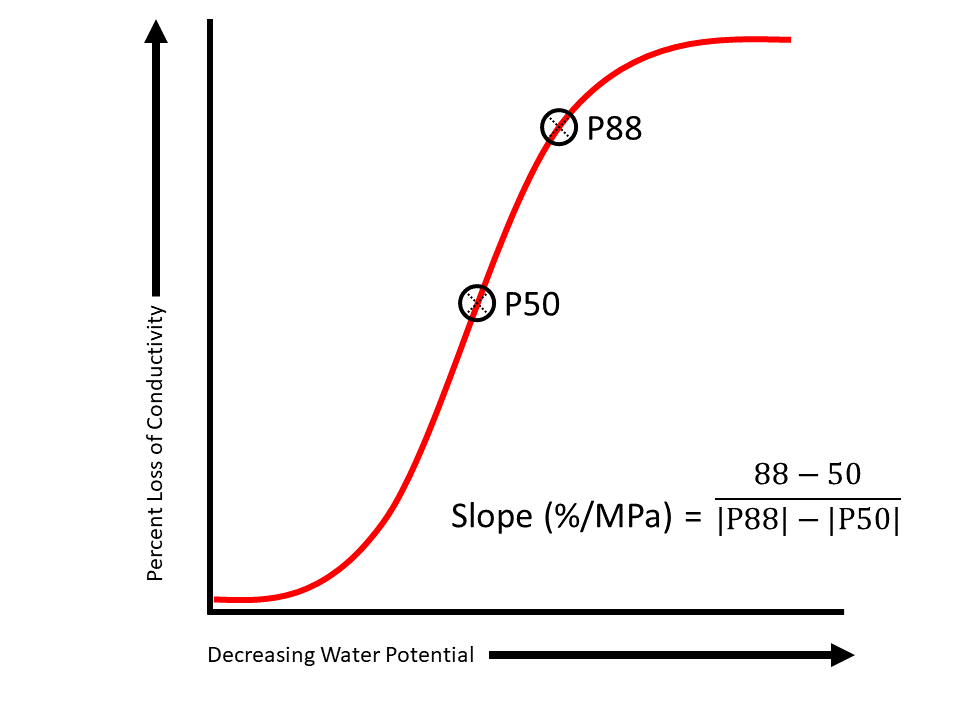
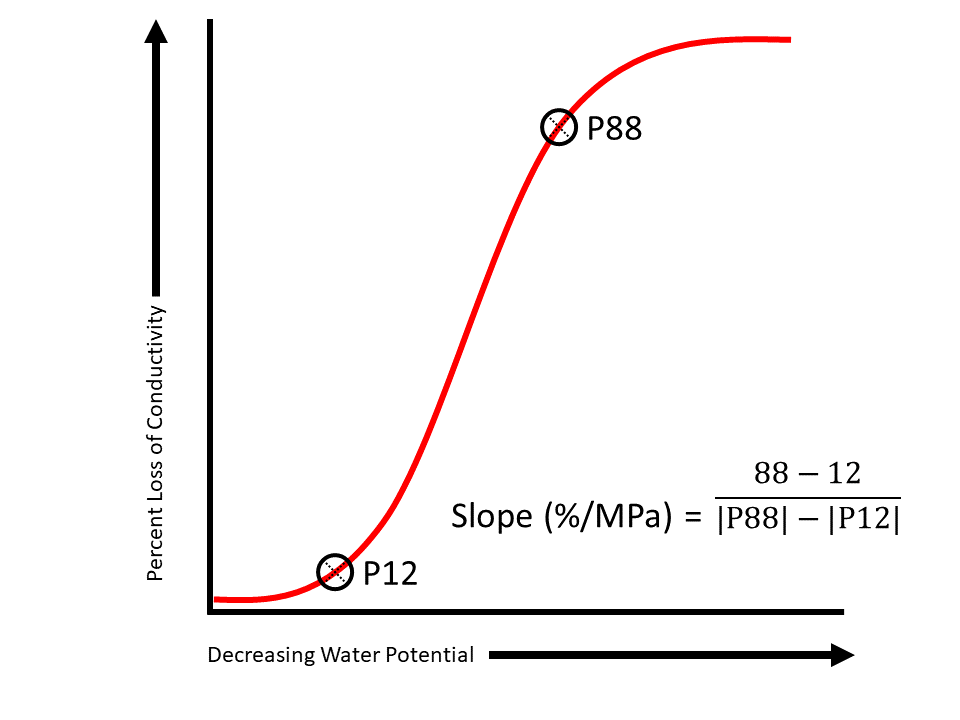
updated slope definition, added Domec and Gartner

diff --git a/XFT/trait_definitions.html b/XFT/trait_definitions.html
@@ -1517,13 +1517,7 @@ div.tocify {
 <!-- ```{r setup, include=FALSE} -->
 <!-- knitr::opts_chunk$set(echo = FALSE) -->
 <!-- ``` -->
-<style>
-.main-container {
-    width: 100%;
-    max-width: unset;
-}
-</style>
-<div id="hydraulic-traits" class="section level1 tabset">
+<div id="hydraulic-traits" class="section level1 tabset tabset-pills">
 <h1>Hydraulic Traits</h1>
 <p>Plant hydraulic traits in the xylem functional traits database are most often those derived from, or related to the vulnerability curve of a species. Vulnerability curves describe the increase in hydraulic impairment (or, decrease in conductivity) along an increasing tension gradient (more negative water potentials). Below is a figure of a vulnerability curve:</p>
 <div id="p50" class="section level2">
@@ -1564,10 +1558,10 @@ A vulnerability curve with P88 circled.
 </div>
 <div id="slope" class="section level2">
 <h2>Slope</h2>
-<div id="slope-of-vulnerability-curve-mpa-88-50p88-p50" class="section level4">
-<h4>Slope of vulnerability curve (% / MPa) = (88-50)/(P88-P50)</h4>
+<div id="slope-of-vulnerability-curve-mpa-88-12p88-p12-domec-and-gartner-2001" class="section level4">
+<h4>Slope of vulnerability curve (% / MPa) = (88-12)/(P88-P12) <a href="https://doi.org/10.1007/s004680100095" target="_blank">(Domec and Gartner, 2001)</a></h4>
 <div class="figure" style="text-align: center">
[2 lines of base64/hex data omitted]
 <p class="caption">
 A vulnerability curve with P50, P88 circled, and the equation for slope.
 </p>
@@ -1635,7 +1629,7 @@ Figure 2: A sigmoidal vulnerability curve (red solid line, ‘S’) and an expon
 </div>
 </div>
 </div>
-<div id="anatomy" class="section level1 tabset">
+<div id="anatomy" class="section level1 tabset tabset-pills">
 <h1>Anatomy</h1>
 <p>Placeholder for anatomy traits overview.</p>
 <div id="av.-tracheid-length-μm" class="section level2">
@@ -1777,7 +1771,7 @@ Figure 2: A sigmoidal vulnerability curve (red solid line, ‘S’) and an expon
 </div>
 </div>
 </div>
-<div id="mechanical-properties" class="section level1 tabset">
+<div id="mechanical-properties" class="section level1 tabset tabset-pills">
 <h1>Mechanical Properties</h1>
 <p>Placeholder for mechanical properties overview.</p>
 <div id="modulus-of-rupture-mor" class="section level2">
@@ -1817,7 +1811,7 @@ Figure 2: A sigmoidal vulnerability curve (red solid line, ‘S’) and an expon
 </div>
 </div>
 </div>
-<div id="leaf-data" class="section level1 tabset">
+<div id="leaf-data" class="section level1 tabset tabset-pills">
 <h1>Leaf data</h1>
 <p>Placeholder for leaf data overview.</p>
 <div id="sla-specific-leaf-area-cm2-g-1" class="section level2">
@@ -1875,7 +1869,7 @@ Figure 2: A sigmoidal vulnerability curve (red solid line, ‘S’) and an expon
 </div>
 </div>
 </div>
-<div id="location" class="section level1 tabset">
+<div id="location" class="section level1 tabset tabset-pills">
 <h1>Location</h1>
 <p>Placeholder for location overview.</p>
 <div id="location-1" class="section level2">
@@ -1927,7 +1921,7 @@ Figure 2: A sigmoidal vulnerability curve (red solid line, ‘S’) and an expon
 </div>
 </div>
 </div>
-<div id="climate" class="section level1 tabset">
+<div id="climate" class="section level1 tabset tabset-pills">
 <h1>Climate</h1>
 <p>Placeholder for climate overview.</p>
 <div id="mean-annual-precipitation" class="section level2">
@@ -1955,7 +1949,7 @@ Figure 2: A sigmoidal vulnerability curve (red solid line, ‘S’) and an expon
 </div>
 </div>
 </div>
-<div id="database" class="section level1 tabset">
+<div id="database" class="section level1 tabset tabset-pills">
 <h1>Database</h1>
 <p>Placeholder for database overview.</p>
 <div id="reference" class="section level2">

diff --git a/XFT/www/trait_definitions.html b/XFT/www/trait_definitions.html
@@ -1517,7 +1517,7 @@ div.tocify {
 <!-- ```{r setup, include=FALSE} -->
 <!-- knitr::opts_chunk$set(echo = FALSE) -->
 <!-- ``` -->
-<div id="hydraulic-traits" class="section level1 tabset">
+<div id="hydraulic-traits" class="section level1 tabset tabset-pills">
 <h1>Hydraulic Traits</h1>
 <p>Plant hydraulic traits in the xylem functional traits database are most often those derived from, or related to the vulnerability curve of a species. Vulnerability curves describe the increase in hydraulic impairment (or, decrease in conductivity) along an increasing tension gradient (more negative water potentials). Below is a figure of a vulnerability curve:</p>
 <div id="p50" class="section level2">
@@ -1558,10 +1558,10 @@ A vulnerability curve with P88 circled.
 </div>
 <div id="slope" class="section level2">
 <h2>Slope</h2>
-<div id="slope-of-vulnerability-curve-mpa-88-50p88-p50" class="section level4">
-<h4>Slope of vulnerability curve (% / MPa) = (88-50)/(P88-P50)</h4>
+<div id="slope-of-vulnerability-curve-mpa-88-12p88-p12-domec-and-gartner-2001" class="section level4">
+<h4>Slope of vulnerability curve (% / MPa) = (88-12)/(P88-P12) <a href="https://doi.org/10.1007/s004680100095" target="_blank">(Domec and Gartner, 2001)</a></h4>
 <div class="figure" style="text-align: center">
[2 lines of base64/hex data omitted]
 <p class="caption">
 A vulnerability curve with P50, P88 circled, and the equation for slope.
 </p>
@@ -1629,7 +1629,7 @@ Figure 2: A sigmoidal vulnerability curve (red solid line, ‘S’) and an expon
 </div>
 </div>
 </div>
-<div id="anatomy" class="section level1 tabset">
+<div id="anatomy" class="section level1 tabset tabset-pills">
 <h1>Anatomy</h1>
 <p>Placeholder for anatomy traits overview.</p>
 <div id="av.-tracheid-length-μm" class="section level2">
@@ -1771,7 +1771,7 @@ Figure 2: A sigmoidal vulnerability curve (red solid line, ‘S’) and an expon
 </div>
 </div>
 </div>
-<div id="mechanical-properties" class="section level1 tabset">
+<div id="mechanical-properties" class="section level1 tabset tabset-pills">
 <h1>Mechanical Properties</h1>
 <p>Placeholder for mechanical properties overview.</p>
 <div id="modulus-of-rupture-mor" class="section level2">
@@ -1811,7 +1811,7 @@ Figure 2: A sigmoidal vulnerability curve (red solid line, ‘S’) and an expon
 </div>
 </div>
 </div>
-<div id="leaf-data" class="section level1 tabset">
+<div id="leaf-data" class="section level1 tabset tabset-pills">
 <h1>Leaf data</h1>
 <p>Placeholder for leaf data overview.</p>
 <div id="sla-specific-leaf-area-cm2-g-1" class="section level2">
@@ -1869,7 +1869,7 @@ Figure 2: A sigmoidal vulnerability curve (red solid line, ‘S’) and an expon
 </div>
 </div>
 </div>
-<div id="location" class="section level1 tabset">
+<div id="location" class="section level1 tabset tabset-pills">
 <h1>Location</h1>
 <p>Placeholder for location overview.</p>
 <div id="location-1" class="section level2">
@@ -1921,7 +1921,7 @@ Figure 2: A sigmoidal vulnerability curve (red solid line, ‘S’) and an expon
 </div>
 </div>
 </div>
-<div id="climate" class="section level1 tabset">
+<div id="climate" class="section level1 tabset tabset-pills">
 <h1>Climate</h1>
 <p>Placeholder for climate overview.</p>
 <div id="mean-annual-precipitation" class="section level2">
@@ -1949,7 +1949,7 @@ Figure 2: A sigmoidal vulnerability curve (red solid line, ‘S’) and an expon
 </div>
 </div>
 </div>
-<div id="database" class="section level1 tabset">
+<div id="database" class="section level1 tabset tabset-pills">
 <h1>Database</h1>
 <p>Placeholder for database overview.</p>
 <div id="reference" class="section level2">
